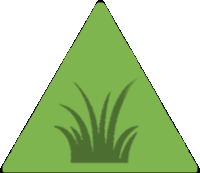
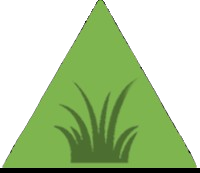
fixed textures

diff --git a/main/core/src/com/gdx/jigsawgenius/main.java b/main/core/src/com/gdx/jigsawgenius/main.java
@@ -22,7 +22,7 @@ public class main extends ApplicationAdapter {
 
 	GameInputController inputProcessor;
 
-	DrawerController boardDrawer;
+	DrawerController drawerController;
 
 	@Override
 	public void create() {
@@ -40,7 +40,7 @@ public class main extends ApplicationAdapter {
 		camera.update();
 
 		controller = new GameLogicController();
-		boardDrawer = new DrawerController();
+		drawerController = new DrawerController();
 
 	}
 
@@ -53,7 +53,7 @@ public class main extends ApplicationAdapter {
 			ScreenUtils.clear(255, 5, 5, 1);
 			batch.begin();
 
-			boardDrawer.drawBoard(controller.getBoard(), assets, batch, 500, 500);
+			drawerController.drawBoard(controller.getBoard(), assets, batch, 500, 500);
 			batch.end();
 		}
 	}

diff --git a/main/core/src/com/gdx/jigsawgenius/view/BiomeDrawer.java b/main/core/src/com/gdx/jigsawgenius/view/BiomeDrawer.java
@@ -25,6 +25,8 @@ public class BiomeDrawer {
 
         sprite.setOrigin(Assets.pieceWidth / 2, Assets.pieceHeight);
 
+        sprite.setSize(Assets.pieceWidth, Assets.pieceHeight);
+
         // Draw the sprite
         sprite.draw(batch);
 
